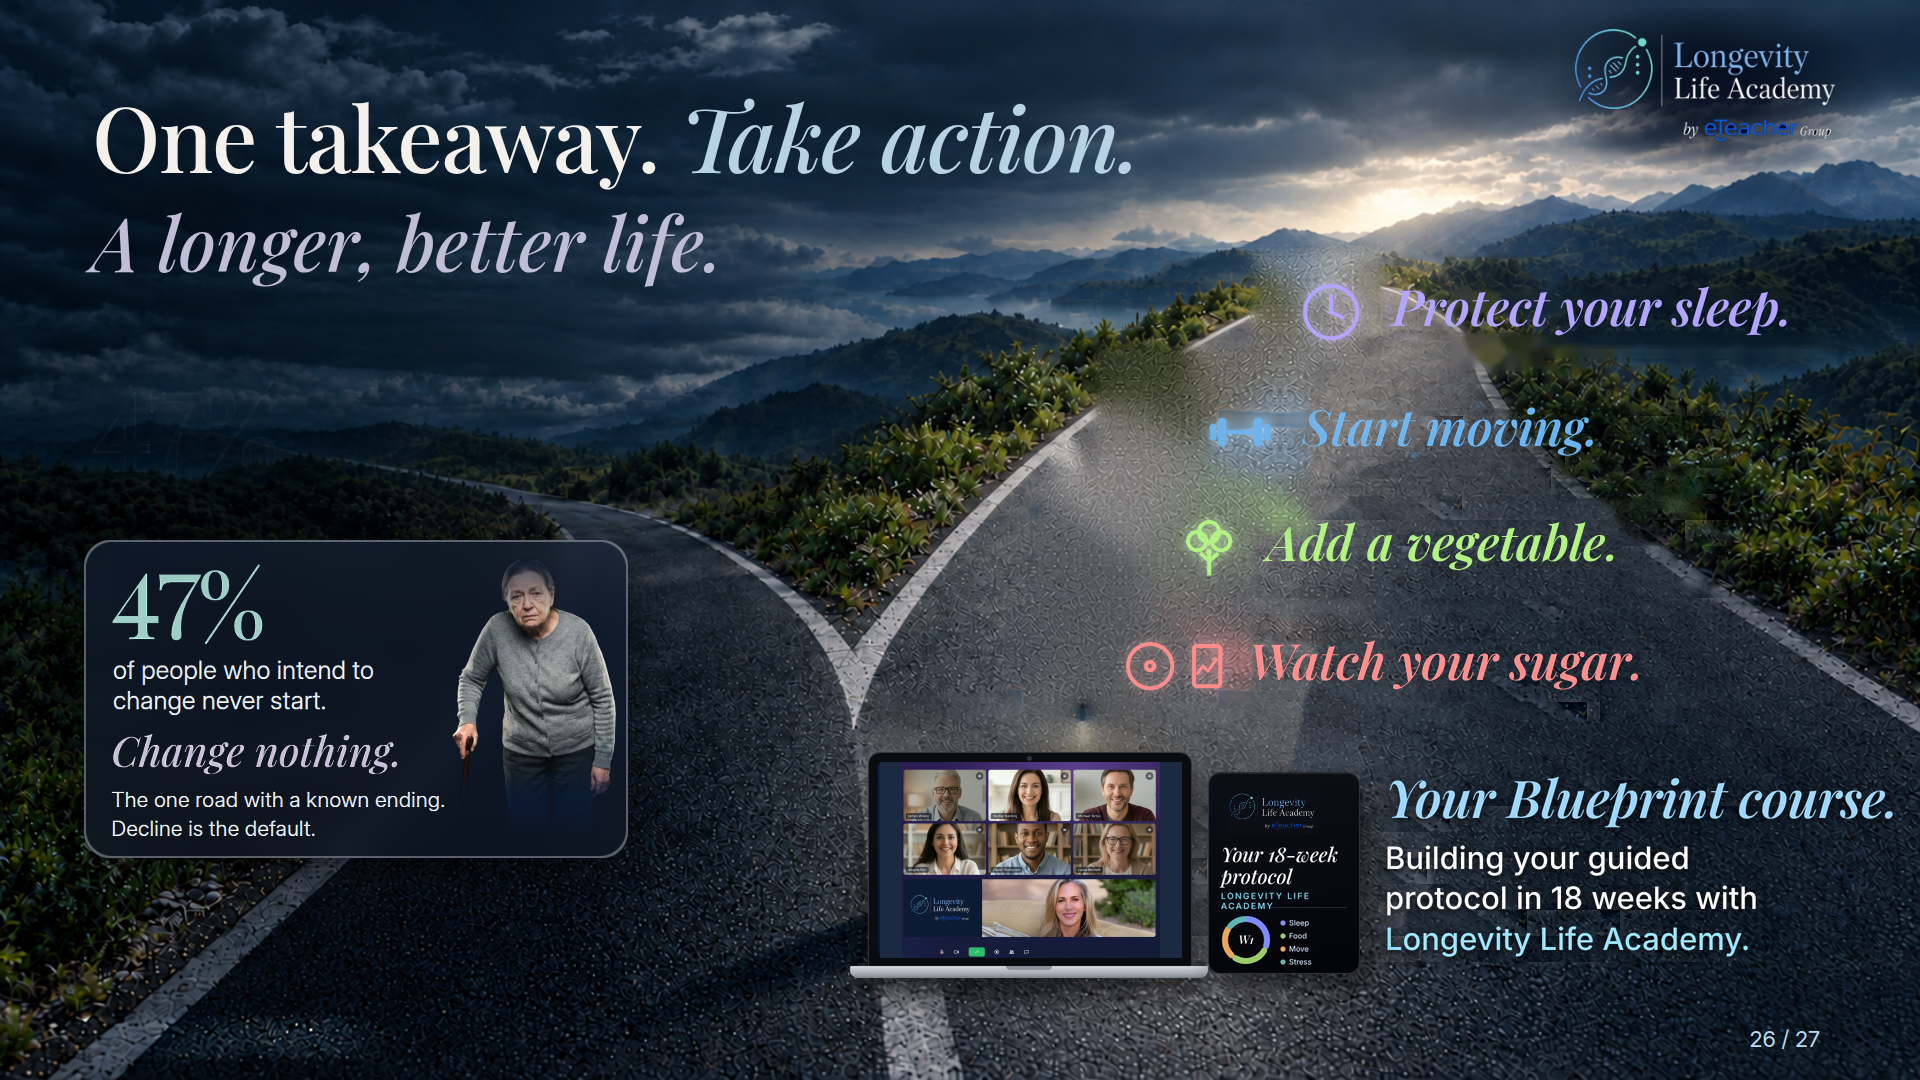
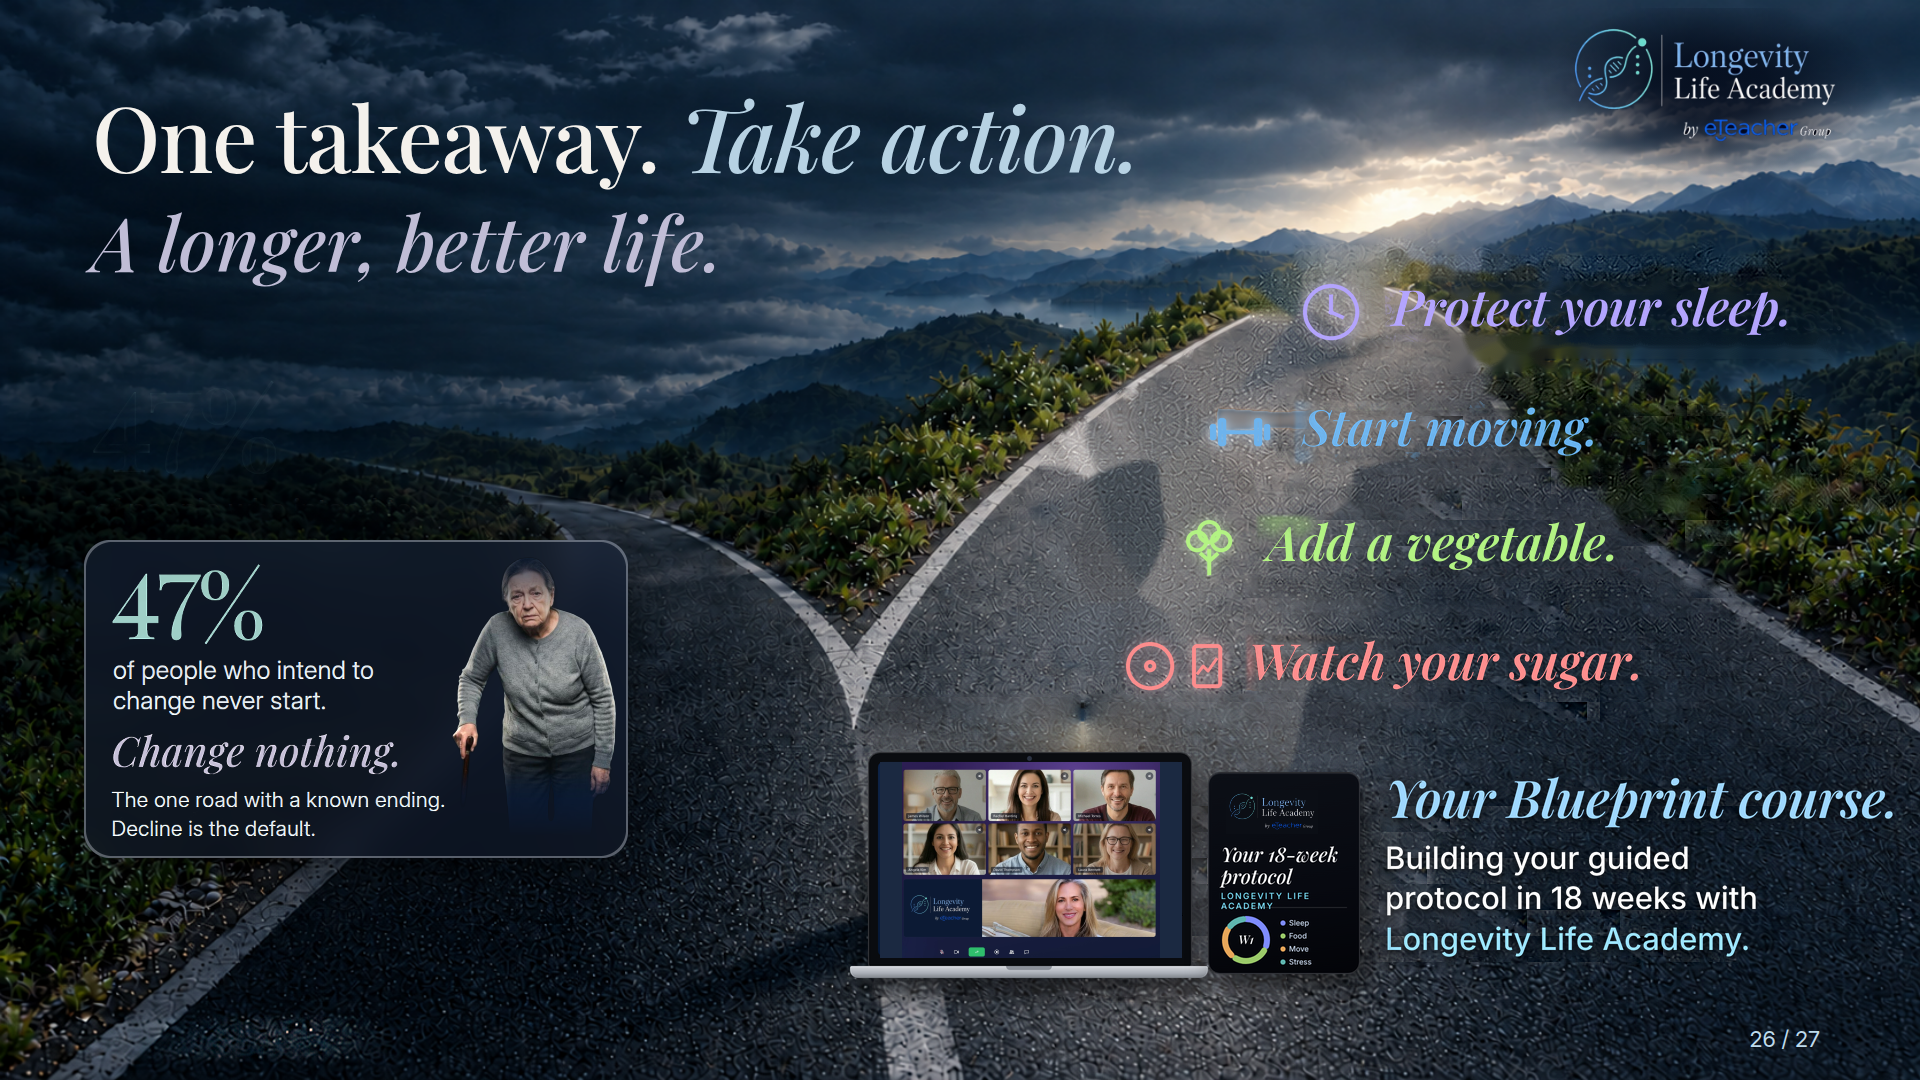
fork-lab: road under old objects rebuilt from original plate (tight Telea + real texture), no haze

diff --git a/slide-canvas/fork-lab/index.html b/slide-canvas/fork-lab/index.html
@@ -1,4 +1,4 @@
 <!doctype html><html><head><meta charset="utf-8"><title>Fork lab – slide 26</title>
 <style>body{margin:0;background:#0b1220;color:#dfe7f3;font:15px/1.4 Inter,system-ui,sans-serif}h2{font-weight:500;margin:28px 24px 10px}img{display:block;width:calc(100% - 48px);max-width:1920px;margin:0 24px 24px;border-radius:6px}</style></head>
 <body><h2>Original</h2><img src="original-n25-fork.png?v=1" alt="Original">
-<h2>New</h2><img src="new-n25-fork.png?v=12" alt="New"></body></html>
+<h2>New</h2><img src="new-n25-fork.png?v=13" alt="New"></body></html>

diff --git a/slide-canvas/fork-lab/src/b7.py b/slide-canvas/fork-lab/src/b7.py
@@ -1,0 +1,50 @@
+import cv2,numpy as np
+from PIL import Image,ImageDraw
+R=cv2.imread('new6.png').astype(np.float32)
+H,W=R.shape[:2]
+# ---- measure headlines on rendered pixels
+rows=[]
+for y0,y1,x0 in [(270,350,1290),(390,470,1290),(505,590,1250),(625,705,1240)]:
+    s=R[y0:y1,x0:1900];mk=((s.max(2)-s.min(2))>60)&(s.max(2)>140)
+    cnt=mk.sum(1);good=np.where(cnt>0.45*cnt.max())[0]
+    cy=y0+(good.min()+good.max())/2;xl=x0+np.where(mk.any(0))[0].min()
+    col=np.median(s[mk],0);rows.append((cy,xl,col));print('row',cy,xl,col)
+# ---- icons (flat line, neon glow)
+S=4;SZ=64;LW=4
+def canvas():return Image.new('L',(SZ*S,SZ*S),0)
+def clock():
+    im=canvas();d=ImageDraw.Draw(im);c=SZ*S/2;r=SZ*S/2-LW*S
+    d.ellipse((c-r,c-r,c+r,c+r),outline=255,width=LW*S)
+    d.line((c,c,c,c-r*0.62),fill=255,width=LW*S);d.line((c,c,c+r*0.45,c+r*0.2),fill=255,width=LW*S)
+    d.ellipse((c-5*S/2,c-5*S/2,c+5*S/2,c+5*S/2),fill=255);return im
+def dumbbell():
+    im=canvas();d=ImageDraw.Draw(im);k=S;c=SZ*S/2
+    d.line((14*k,c,50*k,c),fill=255,width=LW*k)
+    for x in (10,46):d.rounded_rectangle((x*k,c-14*k,(x+8)*k,c+14*k),radius=3*k,outline=255,width=LW*k)
+    for x in (2,56):d.rounded_rectangle((x*k,c-8*k,(x+6)*k,c+8*k),radius=2*k,outline=255,width=LW*k)
+    return im
+def broccoli():
+    im=canvas();d=ImageDraw.Draw(im);k=S
+    for cx,cy,r in [(20,24,11),(44,24,11),(32,15,12)]:d.ellipse(((cx-r)*k,(cy-r)*k,(cx+r)*k,(cy+r)*k),outline=255,width=LW*k)
+    d.line((32*k,32*k,32*k,58*k),fill=255,width=LW*k);d.line((32*k,44*k,23*k,36*k),fill=255,width=LW*k);d.line((32*k,44*k,41*k,36*k),fill=255,width=LW*k)
+    return im
+def cgmphone():
+    im=Image.new('L',(SZ*S*2,SZ*S),0);d=ImageDraw.Draw(im);k=S
+    d.ellipse((4*k,8*k,52*k,56*k),outline=255,width=LW*k);d.ellipse((22*k,26*k,34*k,38*k),outline=255,width=LW*k)
+    d.rounded_rectangle((70*k,10*k,100*k,54*k),radius=5*k,outline=255,width=LW*k)
+    d.line([(75*k,40*k),(81*k,32*k),(86*k,37*k),(95*k,24*k)],fill=255,width=3*k,joint='curve')
+    return im
+GAP=30
+for (cy,xl,col),fn in zip(rows,[clock,dumbbell,broccoli,cgmphone]):
+    im=fn();im=im.resize((im.width//S,im.height//S),Image.LANCZOS)
+    a=np.array(im).astype(np.float32)/255
+    ys,xs=np.where(a>0.2);h,w=a.shape
+    x=int(round(xl-GAP-xs.max()-1));y=int(round(cy-(ys.min()+ys.max())/2))
+    pad=20;A=np.pad(a,pad);x-=pad;y-=pad;h,w=A.shape
+    glow=cv2.GaussianBlur(A,(0,0),6)*0.55
+    reg=R[y:y+h,x:x+w]
+    reg=reg+glow[...,None]*col[None,None]*0.8
+    reg=reg*(1-A[...,None])+col*A[...,None]
+    R[y:y+h,x:x+w]=reg
+    yy,xx=np.where(A>0.5);print('icon cy',y+(yy.min()+yy.max())/2,'right',x+xx.max(),'text',cy,xl)
+cv2.imwrite('new.png',np.clip(np.round(R),0,255).astype(np.uint8))

diff --git a/slide-canvas/fork-lab/src/b6.py b/slide-canvas/fork-lab/src/b6.py
@@ -1,0 +1,30 @@
+import cv2,numpy as np
+from PIL import Image
+F=cv2.imread('new.png').astype(np.float32);O=cv2.imread('o.png');B=cv2.imread('base.png').astype(np.float32)
+H,W=O.shape[:2];tm=np.load('tm.npy')
+m=np.zeros((H,W),np.uint8)
+for n,(ox,oy) in {'clock':(1250,255),'dumb':(1040,330),'cgm':(1020,490)}.items():
+    a=np.array(Image.open('c_%s.png'%n))[...,3];h,w=a.shape
+    am=(a>8).astype(np.uint8)*255
+    sub=O[oy:oy+h,ox:ox+w].astype(np.float32).mean(2);med=cv2.medianBlur(O[oy:oy+h,ox:ox+w],31).astype(np.float32).mean(2)
+    dark=((med-sub)>10).astype(np.uint8)*255
+    near=cv2.dilate(am,np.ones((41,41),np.uint8))
+    d1=cv2.dilate(am,cv2.getStructuringElement(cv2.MORPH_ELLIPSE,(17,17)));sh=np.zeros_like(d1);sh[18:,:w-24]=d1[:-18,24:]
+    mm=d1|cv2.dilate(sh,cv2.getStructuringElement(cv2.MORPH_ELLIPSE,(25,25)))|(cv2.dilate(dark,np.ones((9,9),np.uint8))&near)
+    m[oy:oy+h,ox:ox+w]|=mm
+m[405:447,1200:1298]=255;m[496:516,1240:1330]=255
+rt=tm.copy();rt[:, :1180]=0;rt[:200]=0;rt[740:]=0
+m|=cv2.dilate(rt,np.ones((3,3),np.uint8))
+C=cv2.inpaint(O,m,5,cv2.INPAINT_TELEA).astype(np.float32)
+src=B[560:700,1300:1460];hf=src-cv2.GaussianBlur(src,(0,0),3)
+hf2=np.concatenate([hf,hf[::-1]],0);hf2=np.concatenate([hf2,hf2[:,::-1]],1)
+tile=np.tile(hf2,(H//280+1,W//320+1,1))[:H,:W]
+mf=cv2.GaussianBlur(m.astype(np.float32)/255,(0,0),1.5)[...,None]
+C=cv2.GaussianBlur(C,(0,0),1.2)*mf+C*(1-mf);C=C+tile*mf*1.0
+reg=np.zeros((H,W),np.float32);reg[228:738,1000:1900]=1
+for cy,xl in [(312,1390),(432,1301),(547,1263),(666,1253)]:
+    reg[int(cy-31):int(cy+31),xl-6:]=0
+reg=cv2.GaussianBlur(reg,(0,0),1.5)[...,None]
+out=F*(1-reg)+C*reg
+cv2.imwrite('new6.png',np.clip(out,0,255).astype(np.uint8))
+cv2.imwrite('z12.png',np.clip(out,0,255).astype(np.uint8)[220:740,1000:1700])

diff --git a/slide-canvas/fork-lab/src/b5.py b/slide-canvas/fork-lab/src/b5.py
@@ -53,7 +53,7 @@ def cgmphone():
     d.line([(75*k,40*k),(81*k,32*k),(86*k,37*k),(95*k,24*k)],fill=255,width=3*k,joint='curve')
     return im
 GAP=30
-for (cy,xl,col),fn in zip(rows,[clock,dumbbell,broccoli,cgmphone]):
+for (cy,xl,col),fn in ([] if True else zip(rows,[clock,dumbbell,broccoli,cgmphone])):
     im=fn();im=im.resize((im.width//S,im.height//S),Image.LANCZOS)
     a=np.array(im).astype(np.float32)/255
     ys,xs=np.where(a>0.2);h,w=a.shape
